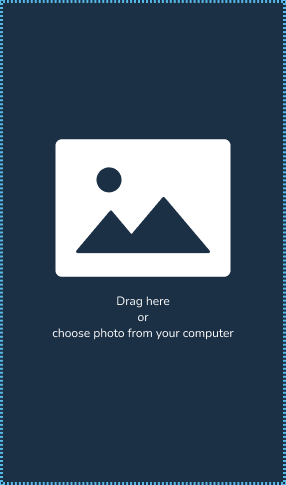
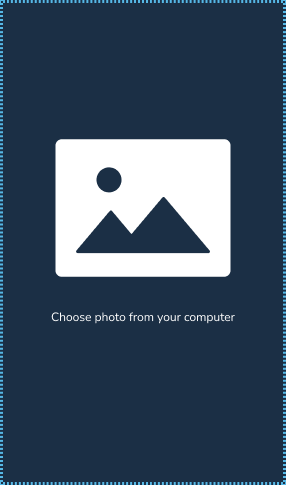
Sign Up - Done

Changed region(s): [[0.1678, 0.6186, 0.8112, 0.7113]]

diff --git a/public/js/Register/signup.js b/public/js/Register/signup.js
@@ -6,6 +6,7 @@ function eventsubmits(){
     const password1 = document.getElementById('password1')
     const form = document.getElementById('signupvalid')
 
+
     if(name.value.length < 6){
         alert("Name can't be less than 6 characters");
         return false;

diff --git a/resources/views/Register/signup.blade.php b/resources/views/Register/signup.blade.php
@@ -7,7 +7,7 @@
     <link href="https://fonts.googleapis.com/css2?family=Nunito:wght@200&display=swap" rel="stylesheet">
     <meta http-equiv="X-UA-Compatible" content="ie=edge">
     <link rel="stylesheet" href="css/Register/signup.css">
-    {{-- <script src="js/Register/signup.js"></script> --}}
+    <script src="js/Register/signup.js"></script>
     <title>Sign Up</title>
     @vite('resources/css/app.css')
 
@@ -44,7 +44,7 @@
 
         <div class="flex flex-row">
             <img class="mt-[3vw] w-[35vw]" src="Assets/LogoXMaSBlack.png" alt="">
-            <form action="/signup" id="signupvalid" method="POST" autocomplete="off" onsubmit="return eventsubmits(this)">
+            <form action="/signup" id="signupvalid" method="POST" autocomplete="off" onsubmit="return eventsubmits(this)" enctype="multipart/form-data">
                 @csrf
                 <div class="absolute signupcontainer mt-[2vw] ml-[-5vw] z-30">
                     <div class="boxfield text-[1.2vw]">
@@ -100,13 +100,16 @@
                         </div>
                         @enderror
                     </div>
+
                     <div class="boxfield2">
                         <p class="text-white font-nunito text-[1.2vw] mt-[5vw]">Upload your photo</p>
                         {{-- Input Gambar --}}
-                        <div class="upload">
-                            <img class="h-[26vw]" src="Assets/UploadPhoto.png" alt="">
+                        <div class="upload" >
+                            <img class="h-[26vw]" id="photoContainer" src="Assets/UploadPhoto.png" alt="">
+                            <input class="absolute h-[26vw] w-[15vw] mt-[-26vw] opacity-0" type="file" name="photo" id="photo" oninput="photoContainer.src='Assets/PhotoUploaded.png'" required>
+
                             {{-- Coy ini data dummy --}}
-                            <input type="name" id="photo" name="photo" value="{{ 'PHOTO DUMMY' }}" style="display: none;">
+                            {{-- <input type="name" id="photo" name="photo" value="{{ 'PHOTO DUMMY' }}" style="display: none;"> --}}
                             {{-- <input type="read" id="image" name="imageprofile" style="width: 15vw; height: 26vw;"> --}}
                         </div>
                         {{-- Masih Diusahakan --}}

diff --git a/app/Http/Controllers/signUpController.php b/app/Http/Controllers/signUpController.php
@@ -2,6 +2,7 @@
 
 namespace App\Http\Controllers;
 
+
 use App\Models\userXmas;
 use Illuminate\Http\Request;
 
@@ -9,17 +10,17 @@ class signUpController extends Controller
 {
 
     public function store(Request $request){
+
         $data = $request -> validate([
             'name' => 'required|min:6|max:25',
             'NIP' => 'required|digits:4|numeric|unique:user_xmas',
             'program' => 'required',
             'phoneNumber' => 'required|min:11|max:13',
             'password' => 'required|min:6',
-            'photo' => 'required|image|mimes:jpg,png,jpeg,gif,svg|max:2048|min:2'
-            // 'imageprofile' => 'required'
+            'photo' => 'required|image'
         ]);
 
-        $data['photo'] = $request->file('image')->store('image', 'public');
+        $data['photo'] = $request->file('photo')->store('database-assets');
 
         userXmas::create($data);
 

diff --git a/database/migrations/2023_04_20_061738_create_presences_table.php b/database/migrations/2023_04_20_061738_create_presences_table.php
@@ -18,7 +18,7 @@ return new class extends Migration
             $table->unsignedInteger('kdSchedule');
             $table->unsignedInteger('kdMember');
             $table->time('time');
-            // $table->timestamps();
+            $table->timestamps();
             $table->foreign('kdSchedule')
                 ->references('kdSchedule')->on('schedules')->cascadeOnDelete()->cascadeOnUpdate();
                 $table->foreign('kdMember')

diff --git a/database/migrations/2023_04_20_061623_create_members_table.php b/database/migrations/2023_04_20_061623_create_members_table.php
@@ -19,7 +19,7 @@ return new class extends Migration
             $table->unsignedInteger('kdExtracurricular');
             $table->unsignedInteger('kdState');
             $table->text('reason');
-            // $table->timestamps();
+            $table->timestamps();
             $table->foreign('NIP')
                 ->references('NIP')->on('user_xmas')->cascadeOnDelete()->cascadeOnUpdate();
             $table->foreign('kdExtracurricular')

diff --git a/database/migrations/2023_04_20_061718_create_documentations_table.php b/database/migrations/2023_04_20_061718_create_documentations_table.php
@@ -17,7 +17,7 @@ return new class extends Migration
             $table->increments('kdDocumentation');
             $table->unsignedInteger('kdExtracurricular');
             $table->string('photo');
-            // $table->timestamps();
+            $table->timestamps();
             $table->foreign('kdExtracurricular')
                 ->references('kdExtracurricular')->on('extracurriculars')->cascadeOnDelete()->cascadeOnUpdate();
     });

diff --git a/database/migrations/2023_04_20_061755_create_reports_table.php b/database/migrations/2023_04_20_061755_create_reports_table.php
@@ -20,7 +20,7 @@ return new class extends Migration
             $table->string('title');
             $table->text('explanation');
             $table->string('photo');
-            // $table->timestamps();
+            $table->timestamps();
             $table->foreign('kdSchedule')
                 ->references('kdSchedule')->on('schedules')->cascadeOnDelete()->cascadeOnUpdate();
             $table->foreign('kdState')

diff --git a/database/migrations/2023_04_20_061700_create_schedules_table.php b/database/migrations/2023_04_20_061700_create_schedules_table.php
@@ -21,7 +21,7 @@ return new class extends Migration
             $table->time('timeEnd');
             $table->string('location');
             $table->text('explanation');
-            // $table->timestamps();
+            $table->timestamps();
             $table->foreign('kdExtracurricular')
                 ->references('kdExtracurricular')->on('extracurriculars')->cascadeOnDelete()->cascadeOnUpdate();
         });

diff --git a/database/migrations/2023_04_20_061643_create_chats_table.php b/database/migrations/2023_04_20_061643_create_chats_table.php
@@ -20,7 +20,7 @@ return new class extends Migration
             $table->time('time');
             $table->text('message');
             $table->string('photo');
-            // $table->timestamps();
+            $table->timestamps();
             $table->foreign('kdMember')
                 ->references('kdMember')->on('members')->cascadeOnDelete()->cascadeOnUpdate();
         });

diff --git a/database/migrations/2023_04_20_061503_create_states_table.php b/database/migrations/2023_04_20_061503_create_states_table.php
@@ -16,7 +16,7 @@ return new class extends Migration
         Schema::create('states', function (Blueprint $table) {
             $table->increments('kdState');
             $table->string('currState');
-            // $table->timestamps();
+            $table->timestamps();
         });
     }
 

diff --git a/database/migrations/2023_04_20_061536_create_user_xmas_table.php b/database/migrations/2023_04_20_061536_create_user_xmas_table.php
@@ -20,7 +20,7 @@ return new class extends Migration
             $table->string('phoneNumber');
             $table->string('password');
             $table->string('photo');
-            // $table->timestamps();
+            $table->timestamps();
         });
     }
 

diff --git a/database/migrations/2023_04_20_061604_create_extracurriculars_table.php b/database/migrations/2023_04_20_061604_create_extracurriculars_table.php
@@ -19,7 +19,7 @@ return new class extends Migration
             $table->string('logo');
             $table->text('description');
             $table->string('category');
-            // $table->timestamps();
+            $table->timestamps();
         });
     }
 
